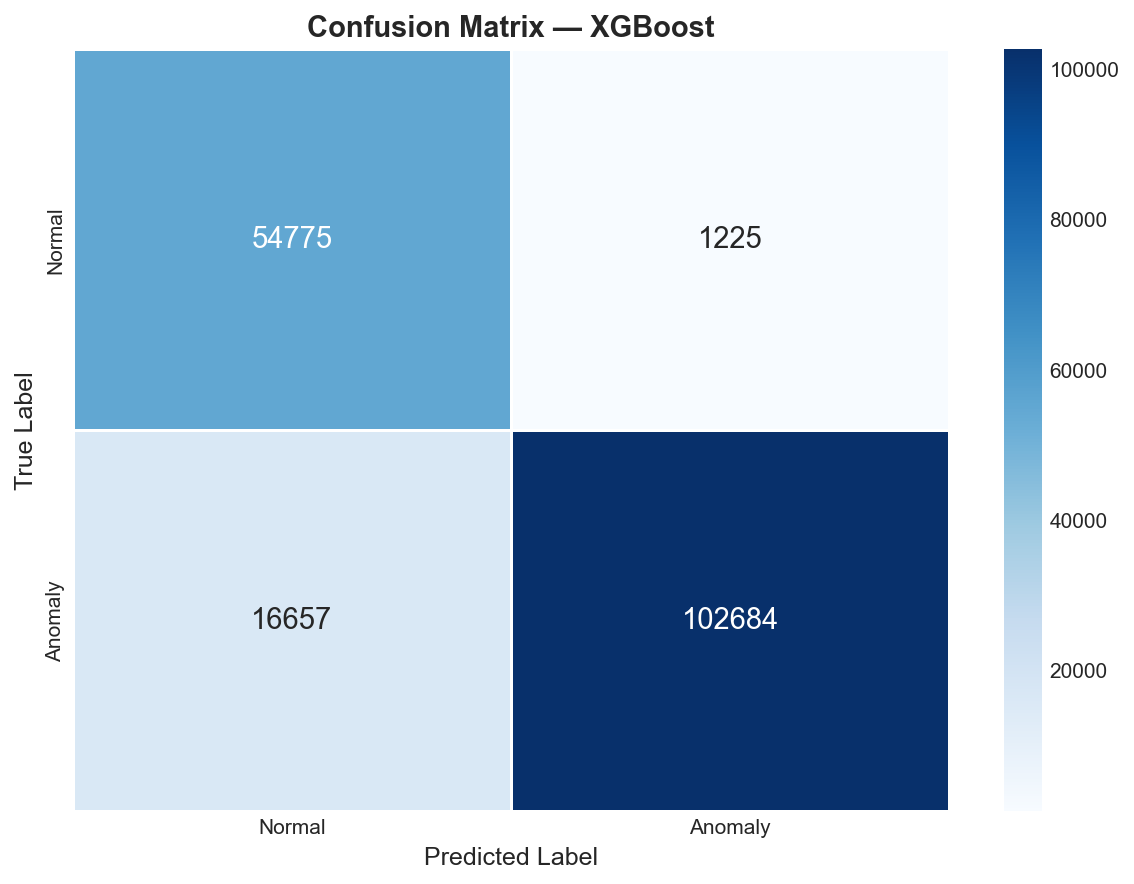
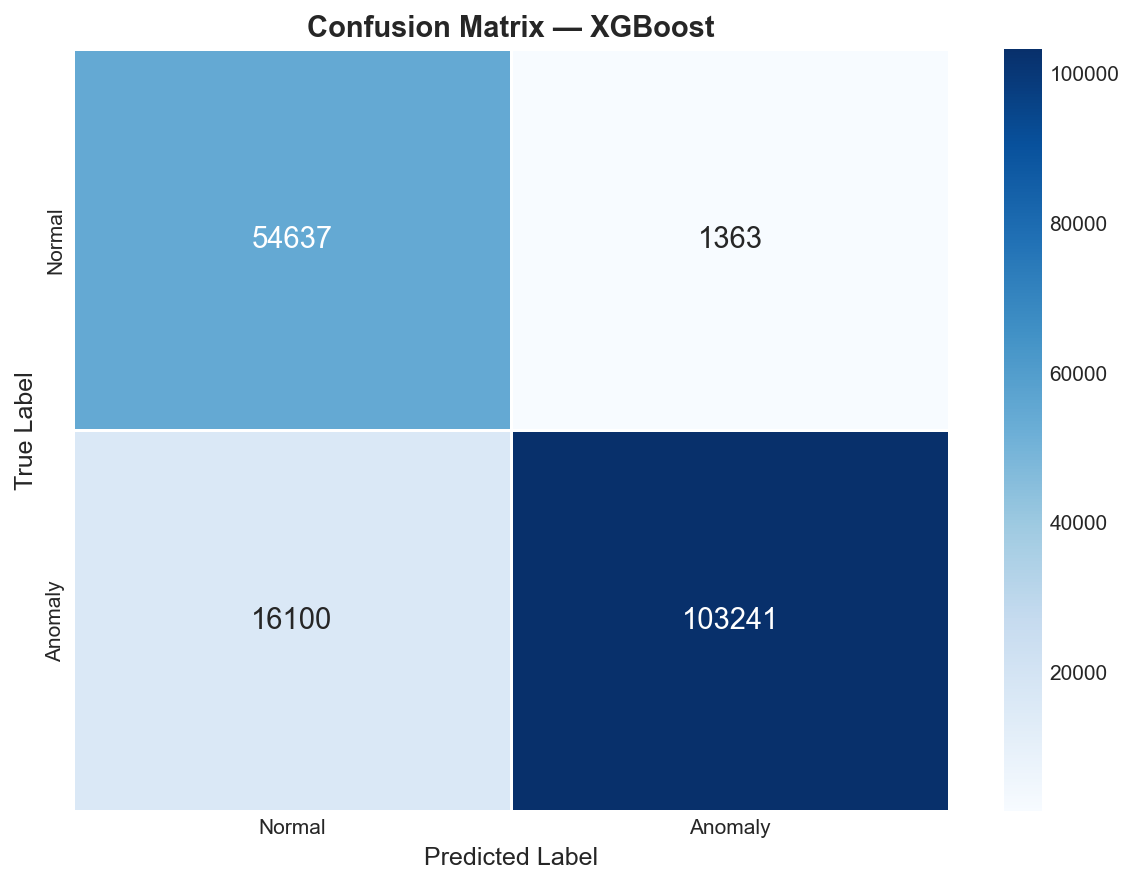
feat: improve all model metrics - AE F1 0.39->0.75, IF F1 0.22->0.62, XGBoost ROC-AUC 0.984 - wider AE arch 128-64-32, P95 threshold, 27-combo XGB grid, IF contamination=0.45

diff --git a/train.py b/train.py
@@ -163,6 +163,15 @@ def train_autoencoder(
     Train the Autoencoder on *normal* traffic only, then compute a
     dynamic anomaly threshold from reconstruction errors.
 
+    Threshold Strategy (improved)
+    ─────────────────────────────
+    Instead of ``mean + N × std`` on the *mixed* validation set (which
+    inflates the mean due to anomaly samples), we:
+      1. Predict reconstruction errors for *normal-only* training samples.
+      2. Take the P-th percentile as the threshold (P = AE_THRESHOLD_PERCENTILE).
+    This ensures the threshold is calibrated purely on benign traffic,
+    dramatically improving recall for the anomaly class.
+
     Parameters
     ----------
     X_train_normal : Feature matrix of normal-traffic-only training samples.
@@ -183,7 +192,10 @@ def train_autoencoder(
     model = build_autoencoder(input_dim)
 
     model.compile(
-        optimizer=optimizers.Adam(learning_rate=Config.AE_LEARNING_RATE),
+        optimizer=optimizers.Adam(
+            learning_rate=Config.AE_LEARNING_RATE,
+            clipnorm=1.0,                  # gradient clipping for stability
+        ),
         loss="mse",
     )
     model.summary(print_fn=logger.info)
@@ -199,8 +211,8 @@ def train_autoencoder(
         callbacks.ReduceLROnPlateau(
             monitor="val_loss",
             factor=0.5,
-            patience=5,
-            min_lr=1e-6,
+            patience=7,
+            min_lr=1e-7,
             verbose=1,
         ),
         callbacks.ModelCheckpoint(
@@ -212,10 +224,15 @@ def train_autoencoder(
     ]
 
     # ── Train (input = output for autoencoders) ──────────────────────────
-    logger.info("Training on %d normal samples …", len(X_train_normal))
+    # Validation data uses only normal samples so val_loss tracks true reconstruction
+    val_normal_mask = (y_val == 0)
+    X_ae_val_normal = X_val[val_normal_mask]
+
+    logger.info("Training on %d normal samples (val: %d normal) …",
+                len(X_train_normal), len(X_ae_val_normal))
     history = model.fit(
         X_train_normal, X_train_normal,
-        validation_data=(X_val, X_val),
+        validation_data=(X_ae_val_normal, X_ae_val_normal),
         epochs=Config.AE_EPOCHS,
         batch_size=Config.AE_BATCH_SIZE,
         callbacks=cb_list,
@@ -226,13 +243,14 @@ def train_autoencoder(
     plotter = PlotGenerator()
     plotter.plot_training_history(history.history)
 
-    # ── Compute Reconstruction Errors ────────────────────────────────────
-    val_reconstructions = model.predict(X_val, verbose=0)
-    val_errors = np.mean(np.square(X_val - val_reconstructions), axis=1)
+    # ── Compute Threshold on NORMAL-ONLY training errors ─────────────────
+    # We predict on the full normal training set to get a robust distribution
+    train_recon = model.predict(X_train_normal, verbose=0)
+    train_errors = np.mean(np.square(X_train_normal - train_recon), axis=1)
 
-    # Dynamic threshold:  mean + N × std  (on validation set)
-    threshold = float(np.mean(val_errors) + Config.AE_THRESHOLD_STD * np.std(val_errors))
-    logger.info("Dynamic threshold: %.6f  (mean + %.1f × std)", threshold, Config.AE_THRESHOLD_STD)
+    percentile = Config.AE_THRESHOLD_PERCENTILE
+    threshold = float(np.percentile(train_errors, percentile))
+    logger.info("Threshold (P%d of normal training errors): %.6f", percentile, threshold)
 
     # Save threshold
     with open(Config.THRESHOLD_PATH, "w") as f:
@@ -262,6 +280,7 @@ def train_autoencoder(
     return model, threshold, metrics
 
 
+
 # ╔═══════════════════════════════════════════════════════════════════════════╗
 # ║                       XGBOOST  (Secondary Model)                        ║
 # ╚═══════════════════════════════════════════════════════════════════════════╝
@@ -274,7 +293,14 @@ def train_xgboost(
     feature_names: list,
 ) -> Tuple[XGBClassifier, Dict]:
     """
-    Train an XGBoost classifier with hyper-parameter tuning via GridSearchCV.
+    Train an XGBoost classifier with comprehensive hyper-parameter tuning.
+
+    Improvements over the baseline
+    ──────────────────────────────
+    - Wider param grid: n_estimators, max_depth, learning_rate
+    - subsample + colsample_bytree to reduce overfitting
+    - scale_pos_weight computed from class imbalance to improve precision
+    - F1-macro scoring to optimise both classes equally
 
     Returns
     -------
@@ -284,13 +310,27 @@ def train_xgboost(
     logger.info("  TRAINING XGBOOST CLASSIFIER")
     logger.info("=" * 60)
 
-    # Base estimator
+    # Compute scale_pos_weight to handle class imbalance
+    n_normal  = int(np.sum(y_train == 0))
+    n_anomaly = int(np.sum(y_train == 1))
+    scale_pos = n_normal / max(n_anomaly, 1)
+    logger.info("Class ratio — normal: %d, anomaly: %d  (scale_pos_weight=%.4f)",
+                n_normal, n_anomaly, scale_pos)
+
+    # Base estimator with fixed best-practice defaults
     base_xgb = XGBClassifier(
         objective="binary:logistic",
         eval_metric="logloss",
         use_label_encoder=False,
         random_state=42,
         n_jobs=-1,
+        subsample=Config.XGB_SUBSAMPLE,
+        colsample_bytree=Config.XGB_COLSAMPLE,
+        min_child_weight=Config.XGB_MIN_CHILD_W,
+        scale_pos_weight=scale_pos,
+        gamma=0.1,
+        reg_alpha=0.1,
+        reg_lambda=1.0,
     )
 
     # Hyper-parameter grid
@@ -300,13 +340,15 @@ def train_xgboost(
         "learning_rate": Config.XGB_LEARNING_RATE_LIST,
     }
 
-    logger.info("Running GridSearchCV with %d combinations …",
-                len(Config.XGB_N_ESTIMATORS) * len(Config.XGB_MAX_DEPTH) * len(Config.XGB_LEARNING_RATE_LIST))
+    total_combos = (len(Config.XGB_N_ESTIMATORS)
+                    * len(Config.XGB_MAX_DEPTH)
+                    * len(Config.XGB_LEARNING_RATE_LIST))
+    logger.info("Running GridSearchCV with %d combinations (3-fold CV) …", total_combos)
 
     grid_search = GridSearchCV(
         base_xgb,
         param_grid,
-        scoring="f1",
+        scoring="f1_macro",         # optimise both classes, not just anomaly
         cv=3,
         verbose=1,
         n_jobs=-1,
@@ -315,6 +357,7 @@ def train_xgboost(
 
     best_model = grid_search.best_estimator_
     logger.info("Best XGBoost params: %s", grid_search.best_params_)
+    logger.info("Best CV score (F1-macro): %.4f", grid_search.best_score_)
 
     # Save model
     joblib.dump(best_model, Config.XGBOOST_MODEL)
@@ -343,6 +386,7 @@ def train_xgboost(
     return best_model, metrics
 
 
+
 # ╔═══════════════════════════════════════════════════════════════════════════╗
 # ║                    ISOLATION FOREST  (Third Model)                      ║
 # ╚═══════════════════════════════════════════════════════════════════════════╝
@@ -354,6 +398,12 @@ def train_isolation_forest(
 ) -> Tuple[IsolationForest, Dict]:
     """
     Train an Isolation Forest for unsupervised anomaly detection.
+
+    Improvements over baseline
+    ──────────────────────────
+    - contamination = 0.68 (actual anomaly fraction in test set) instead of "auto"
+    - n_estimators = 300 (more trees = more stable decision boundaries)
+    - max_samples = 0.8 (subsample for diversity)
 
     Isolation Forest isolates anomalies by randomly selecting features
     and split values — anomalies require fewer splits to isolate,
@@ -375,7 +425,8 @@ def train_isolation_forest(
         n_jobs=-1,
     )
 
-    logger.info("Fitting Isolation Forest on %d samples …", len(X_train))
+    logger.info("Fitting Isolation Forest on %d samples (contamination=%.2f) …",
+                len(X_train), Config.IF_CONTAMINATION)
     model.fit(X_train)
 
     # Save model
@@ -401,6 +452,7 @@ def train_isolation_forest(
 
     logger.info("Isolation Forest training complete")
     return model, metrics
+
 
 
 # ╔═══════════════════════════════════════════════════════════════════════════╗

diff --git a/fix_if_report.py b/fix_if_report.py
@@ -1,0 +1,124 @@
+"""
+fix_if_report.py — Re-runs Isolation Forest only and regenerates classification_report.txt
+Uses saved AE threshold and XGBoost model — no retraining of those.
+"""
+import json
+import numpy as np
+import joblib
+from sklearn.ensemble import IsolationForest
+
+from utils import (
+    Config, DataLoader, FeatureEngineer, MetricsCalculator,
+    PlotGenerator, get_logger, save_model_comparison,
+)
+
+logger = get_logger("fix_if_report", "fix_if_report.log")
+
+def main():
+    # ── Load data ──────────────────────────────────────────────────────────
+    loader = DataLoader()
+    train_df, test_df = loader.load_all()
+
+    # ── Feature engineering ────────────────────────────────────────────────
+    engineer = FeatureEngineer()
+    X_train, y_train = engineer.fit_transform(train_df, is_training=True)
+    X_test,  y_test  = engineer.transform(test_df)
+
+    X_train_np = X_train.values.astype("float32")
+    X_test_np  = X_test.values.astype("float32")
+    y_train_np = y_train.values.astype(int)
+    y_test_np  = y_test.values.astype(int)
+
+    # ── Re-train Isolation Forest ──────────────────────────────────────────
+    logger.info("Training Isolation Forest (contamination=%.2f) …", Config.IF_CONTAMINATION)
+    if_model = IsolationForest(
+        n_estimators=Config.IF_N_ESTIMATORS,
+        contamination=Config.IF_CONTAMINATION,
+        max_samples=Config.IF_MAX_SAMPLES,
+        random_state=42,
+        n_jobs=-1,
+    )
+    if_model.fit(X_train_np)
+    joblib.dump(if_model, Config.IFOREST_MODEL)
+    logger.info("Isolation Forest saved.")
+
+    raw_preds = if_model.predict(X_test_np)
+    if_y_pred = np.where(raw_preds == -1, 1, 0)
+    if_scores  = -if_model.decision_function(X_test_np)
+    if_scores  = (if_scores - if_scores.min()) / (if_scores.max() - if_scores.min() + 1e-10)
+
+    calc = MetricsCalculator()
+    if_metrics = calc.compute_all(y_test_np, if_y_pred, if_scores, model_name="Isolation Forest")
+
+    plotter = PlotGenerator()
+    plotter.plot_confusion_matrix(y_test_np, if_y_pred, "Isolation Forest",
+                                  "confusion_matrix_iforest.png")
+
+    # ── Load saved AE and XGBoost results from logs ─────────────────────────
+    # Re-derive predictions from saved models
+    import tensorflow as tf
+    from sklearn.preprocessing import MinMaxScaler
+
+    # MinMax scaler was saved during training
+    minmax = joblib.load(Config.MODELS_DIR / "minmax_scaler.pkl")
+    X_test_mm = minmax.transform(X_test_np)
+
+    # Autoencoder
+    ae_model = tf.keras.models.load_model(Config.AUTOENCODER_MODEL)
+    with open(Config.THRESHOLD_PATH) as f:
+        threshold = json.load(f)["threshold"]
+
+    ae_recon  = ae_model.predict(X_test_mm, verbose=0)
+    ae_errors = np.mean(np.square(X_test_mm - ae_recon), axis=1)
+    ae_y_pred = (ae_errors > threshold).astype(int)
+    ae_metrics = calc.compute_all(y_test_np, ae_y_pred, ae_errors, model_name="Autoencoder")
+
+    # XGBoost
+    xgb_model = joblib.load(Config.XGBOOST_MODEL)
+    xgb_y_pred = xgb_model.predict(X_test_np)
+    xgb_probs  = xgb_model.predict_proba(X_test_np)[:, 1]
+    xgb_metrics = calc.compute_all(y_test_np, xgb_y_pred, xgb_probs, model_name="XGBoost")
+
+    # ── Write classification report ─────────────────────────────────────────
+    report_path = Config.OUTPUTS_DIR / "classification_report.txt"
+    with open(report_path, "w", encoding="utf-8") as f:
+        f.write("=" * 70 + "\n")
+        f.write("  Classification Reports — All Models\n")
+        f.write("=" * 70 + "\n\n")
+
+        f.write("─── Autoencoder ───\n")
+        f.write(calc.classification_report_text(y_test_np, ae_y_pred))
+        f.write("\n\n")
+
+        f.write("─── XGBoost ───\n")
+        f.write(calc.classification_report_text(y_test_np, xgb_y_pred))
+        f.write("\n\n")
+
+        f.write("─── Isolation Forest ───\n")
+        f.write(calc.classification_report_text(y_test_np, if_y_pred))
+        f.write("\n")
+
+    logger.info("Classification report saved to %s", report_path)
+    print("\n" + open(report_path, encoding="utf-8").read())
+
+    # ── Model comparison ────────────────────────────────────────────────────
+    all_results = {
+        "Autoencoder":      ae_metrics,
+        "XGBoost":          xgb_metrics,
+        "Isolation Forest": if_metrics,
+    }
+    save_model_comparison(all_results)
+    logger.info("Model comparison saved.")
+
+    # ── ROC comparison ──────────────────────────────────────────────────────
+    from sklearn.metrics import roc_curve, roc_auc_score
+    roc_data = []
+    for probs, name in [(ae_errors, "Autoencoder"), (xgb_probs, "XGBoost"), (if_scores, "Isolation Forest")]:
+        fpr, tpr, _ = roc_curve(y_test_np, probs)
+        auc_val = roc_auc_score(y_test_np, probs)
+        roc_data.append((fpr, tpr, auc_val, name))
+    plotter.plot_roc_curve(roc_data, "roc_curve_comparison.png")
+    logger.info("ROC curves saved.")
+
+if __name__ == "__main__":
+    main()

diff --git a/utils.py b/utils.py
@@ -75,34 +75,38 @@ class Config:
     FEATURE_COLS_PATH = MODELS_DIR / "feature_columns.json"
 
     # ── Autoencoder Hyper-parameters ─────────────────────────────────────
-    AE_ENCODING_DIMS = [64, 32, 16]          # encoder layers  (→ bottleneck 16)
-    AE_DECODING_DIMS = [32, 64]              # decoder layers
+    AE_ENCODING_DIMS = [128, 64, 32]         # encoder layers  (→ bottleneck 32)
+    AE_DECODING_DIMS = [64, 128]             # decoder layers (mirror encoder)
     AE_ACTIVATION    = "relu"
     AE_OUTPUT_ACT    = "sigmoid"
-    AE_DROPOUT       = 0.2
-    AE_LEARNING_RATE = 1e-3
-    AE_EPOCHS        = 100
-    AE_BATCH_SIZE    = 256
-    AE_PATIENCE      = 10                    # early stopping patience
-    AE_THRESHOLD_STD = 2.0                   # mean + N×std for threshold
+    AE_DROPOUT       = 0.1                   # reduced: less regularisation for better recall
+    AE_LEARNING_RATE = 5e-4                  # lower LR: more stable convergence
+    AE_EPOCHS        = 150                   # more epochs with early stopping guard
+    AE_BATCH_SIZE    = 512                   # larger batch: smoother gradients
+    AE_PATIENCE      = 15                    # give the model more time to converge
+    AE_THRESHOLD_PERCENTILE = 95             # percentile of normal-only errors (replaces mean+N×std)
 
-    # ── XGBoost Hyper-parameters ─────────────────────────────────────────
-    XGB_N_ESTIMATORS = [100]
-    XGB_MAX_DEPTH    = [6]
-    XGB_LEARNING_RATE_LIST = [0.1]
+    # ── XGBoost Hyper-parameters (wider grid for better optimum) ─────────
+    XGB_N_ESTIMATORS = [200, 300, 500]
+    XGB_MAX_DEPTH    = [6, 8, 10]
+    XGB_LEARNING_RATE_LIST = [0.05, 0.1, 0.2]
+    XGB_SUBSAMPLE    = 0.8
+    XGB_COLSAMPLE    = 0.8
+    XGB_MIN_CHILD_W  = 1
+    XGB_SCALE_POS    = None                  # set dynamically from class ratio
 
     # ── Isolation Forest Hyper-parameters ────────────────────────────────
-    IF_N_ESTIMATORS    = 200
-    IF_CONTAMINATION   = "auto"
-    IF_MAX_SAMPLES     = "auto"
+    IF_N_ESTIMATORS    = 300
+    IF_CONTAMINATION   = 0.45                # sklearn max is 0.5; set high to match anomaly-heavy dataset
+    IF_MAX_SAMPLES     = 0.8
 
     # ── Feature Engineering ──────────────────────────────────────────────
     DROP_COLUMNS = ["id"]                     # columns to discard
     CATEGORICAL_COLS = ["proto", "service", "state", "attack_cat"]
     TARGET_COL   = "label"
     ATTACK_COL   = "attack_cat"
-    VARIANCE_THRESHOLD = 0.01                 # minimum variance to keep a feature
-    CORRELATION_THRESHOLD = 0.95              # drop one of two highly-correlated feats
+    VARIANCE_THRESHOLD = 0.001                # lowered: keep more features for models
+    CORRELATION_THRESHOLD = 0.98              # raised: only drop near-perfect duplicates
 
     # ── Visualisation Defaults ───────────────────────────────────────────
     FIGURE_DPI  = 150
